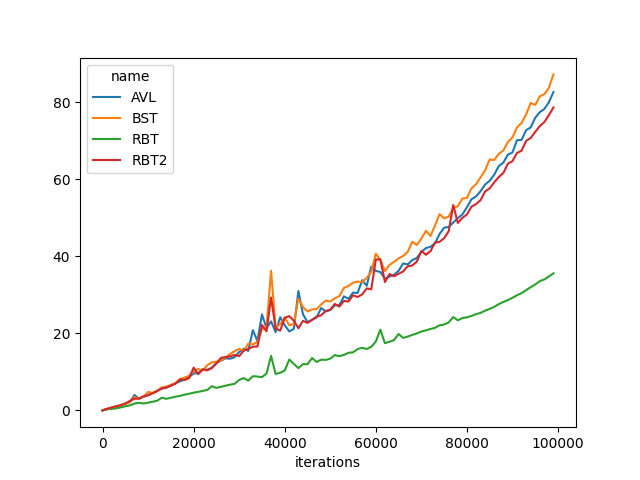
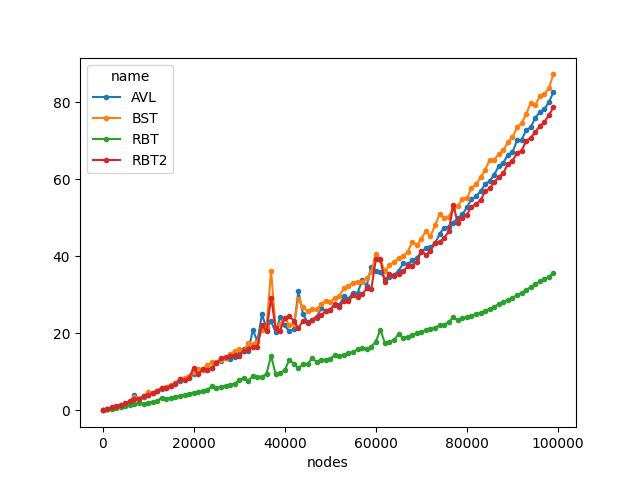
Add new format for graphs

diff --git a/plot/plot.py b/plot/plot.py
@@ -5,21 +5,21 @@ import matplotlib.pyplot as plt
 insert_csv = pd.read_csv("insert-1-100000.csv", header=None)
 search_csv = pd.read_csv("search-1-100000.csv", header=None)
 
-insert_csv.columns = ["name", "iterations", "avg_case", "worst_case"]
-search_csv.columns = ["name", "iterations", "avg_case", "worst_case"]
+insert_csv.columns = ["name", "nodes", "avg_case", "worst_case"]
+search_csv.columns = ["name", "nodes", "avg_case", "worst_case"]
 
-insert_avg = insert_csv.pivot(index="iterations", columns="name", values="avg_case")
-fig = insert_avg.plot().get_figure()
+insert_avg = insert_csv.pivot(index="nodes", columns="name", values="avg_case")
+fig = insert_avg.plot(style='.-').get_figure()
 fig.savefig("insert_avg.png")
 
-search_avg = search_csv.pivot(index="iterations", columns="name", values="avg_case")
-fig = search_avg.plot().get_figure()
+search_avg = search_csv.pivot(index="nodes", columns="name", values="avg_case")
+fig = search_avg.plot(style='.-').get_figure()
 fig.savefig("search_avg.png")
 
-insert_worst = insert_csv.pivot(index="iterations", columns="name", values="worst_case")
-fig = insert_worst.plot().get_figure()
+insert_worst = insert_csv.pivot(index="nodes", columns="name", values="worst_case")
+fig = insert_worst.plot(style='.-').get_figure()
 fig.savefig("insert_worst.png")
 
-search_worst = search_csv.pivot(index="iterations", columns="name", values="worst_case")
-fig = search_worst.plot().get_figure()
+search_worst = search_csv.pivot(index="nodes", columns="name", values="worst_case")
+fig = search_worst.plot(style='.-').get_figure()
 fig.savefig("search_worst.png")

diff --git a/src/benchmarking/benchmark.c b/src/benchmarking/benchmark.c
@@ -51,7 +51,7 @@ void insert_cstuff(FILE* pFile, tree_t tree_type,
                     break;
                 case (AVL):
                     strcpy(name, "AVL");
-                    avl_insert(bt, (void*)data, FALSE);
+                    avl_insert(bt, (void*)data, TRUE);
                     break;
             }
         }
@@ -146,7 +146,7 @@ void search_cstuff(FILE* pFile, tree_t tree_type,
                 break;
             case (AVL):
                 strcpy(name, "AVL");
-                avl_insert(bt, (void*)data, FALSE);
+                avl_insert(bt, (void*)data, TRUE);
                 break;
         }
     }
@@ -176,7 +176,7 @@ void benchmark_search() {
     char filename[50];
     sprintf(filename, "search-%d-%d.csv", start, end);
     FILE* pFile = fopen(filename, "w+");
-    for (int count = start; count <= end; count += jump) {
+    for (int count = start; count <= end + 1; count += jump) {
         printf("\tSearch on tree with %d elements\n", count);
         int values[count];
         for (int i = 0; i < count; i++) {
@@ -208,7 +208,7 @@ void benchmark_insert() {
     char filename[50];
     sprintf(filename, "insert-%d-%d.csv", start, end);
     FILE* pFile = fopen(filename, "w+");
-    for (int count = start; count <= end; count += jump) {
+    for (int count = start; count <= end + 1; count += jump) {
         int values[count];
         for (int i = 0; i < count; i++) {
             values[i] = i;
